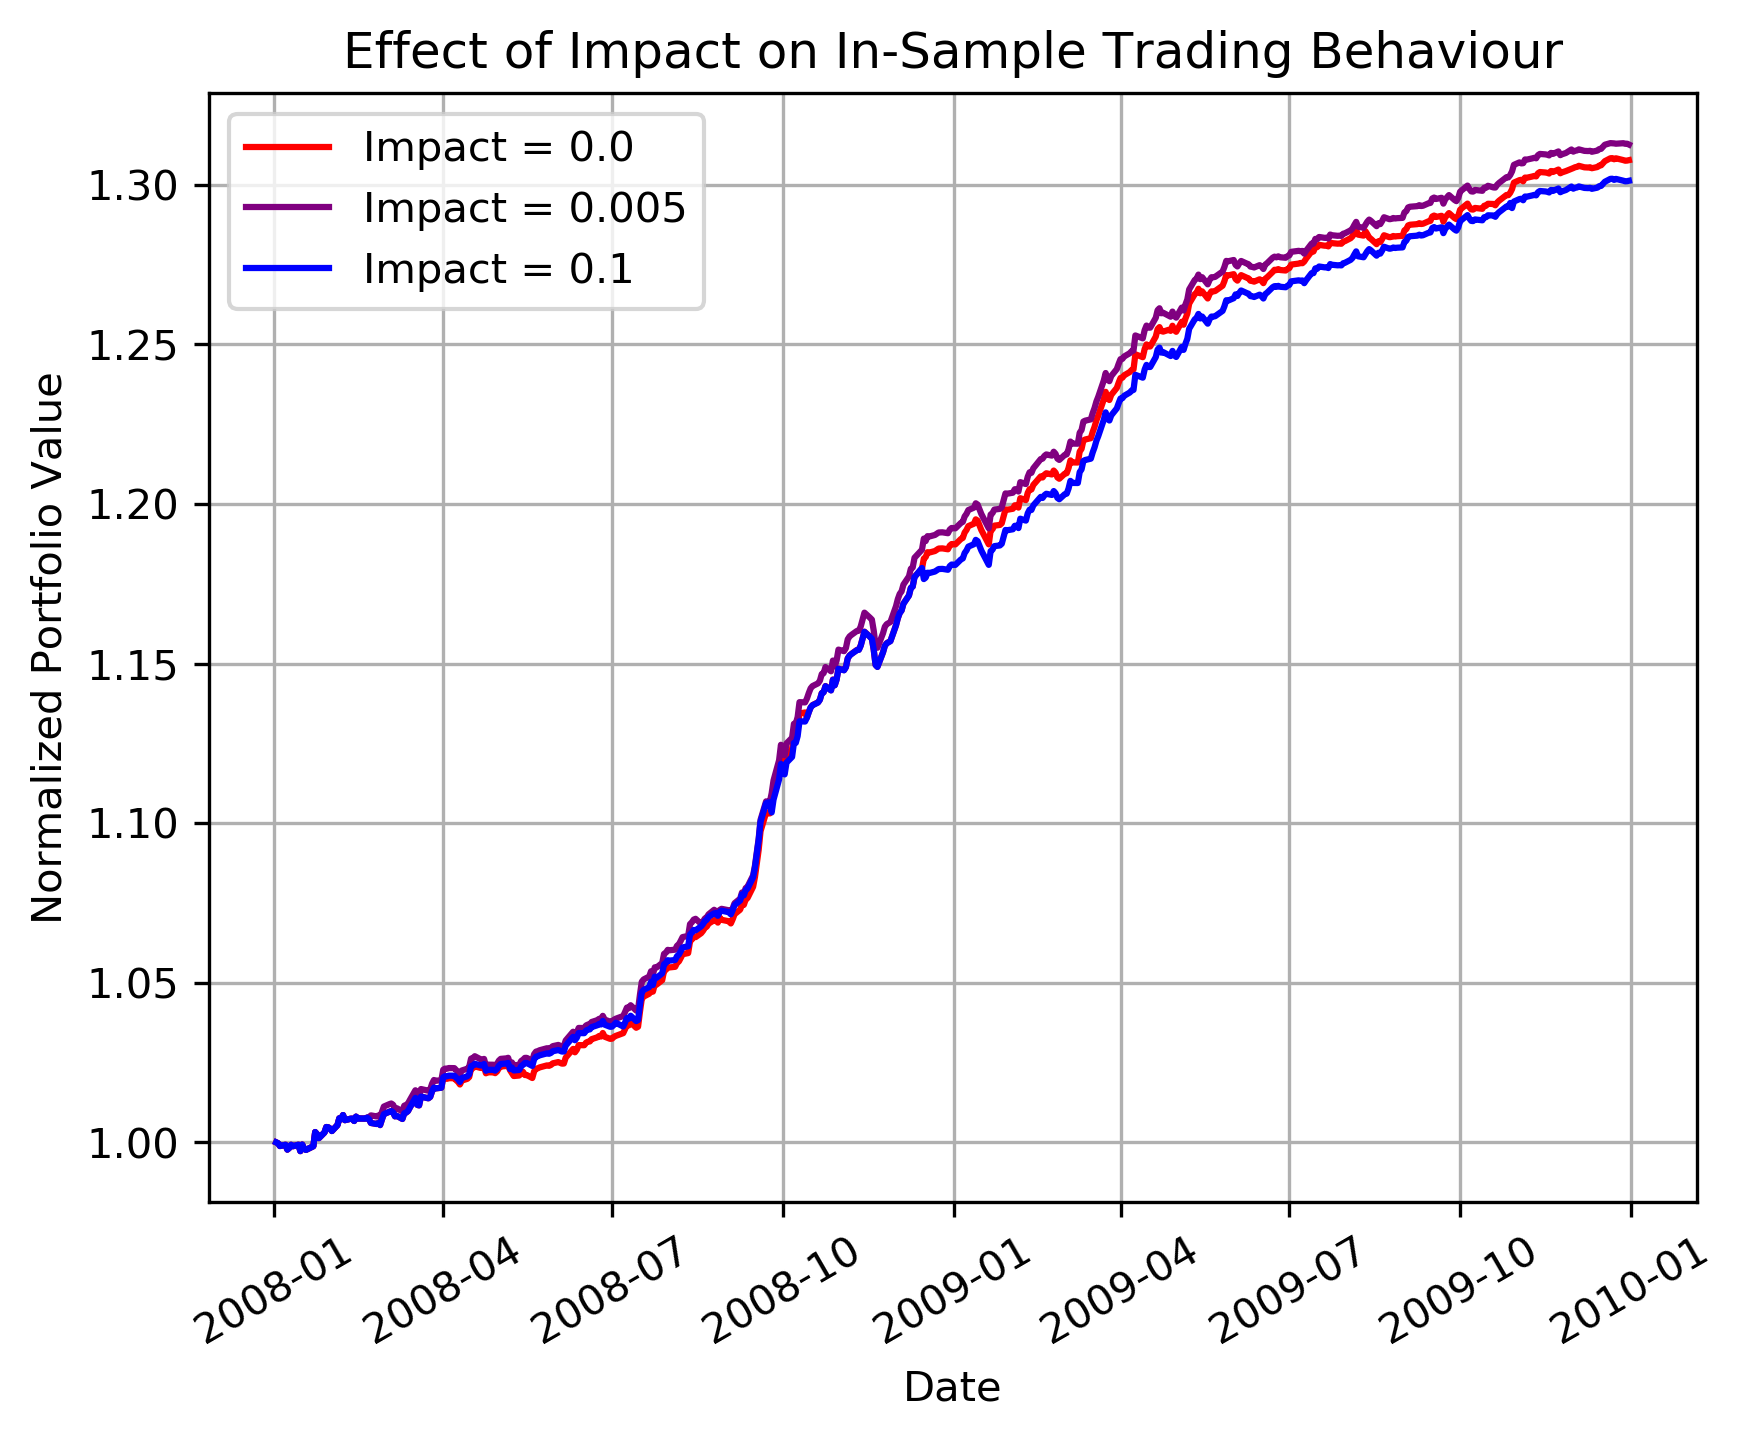
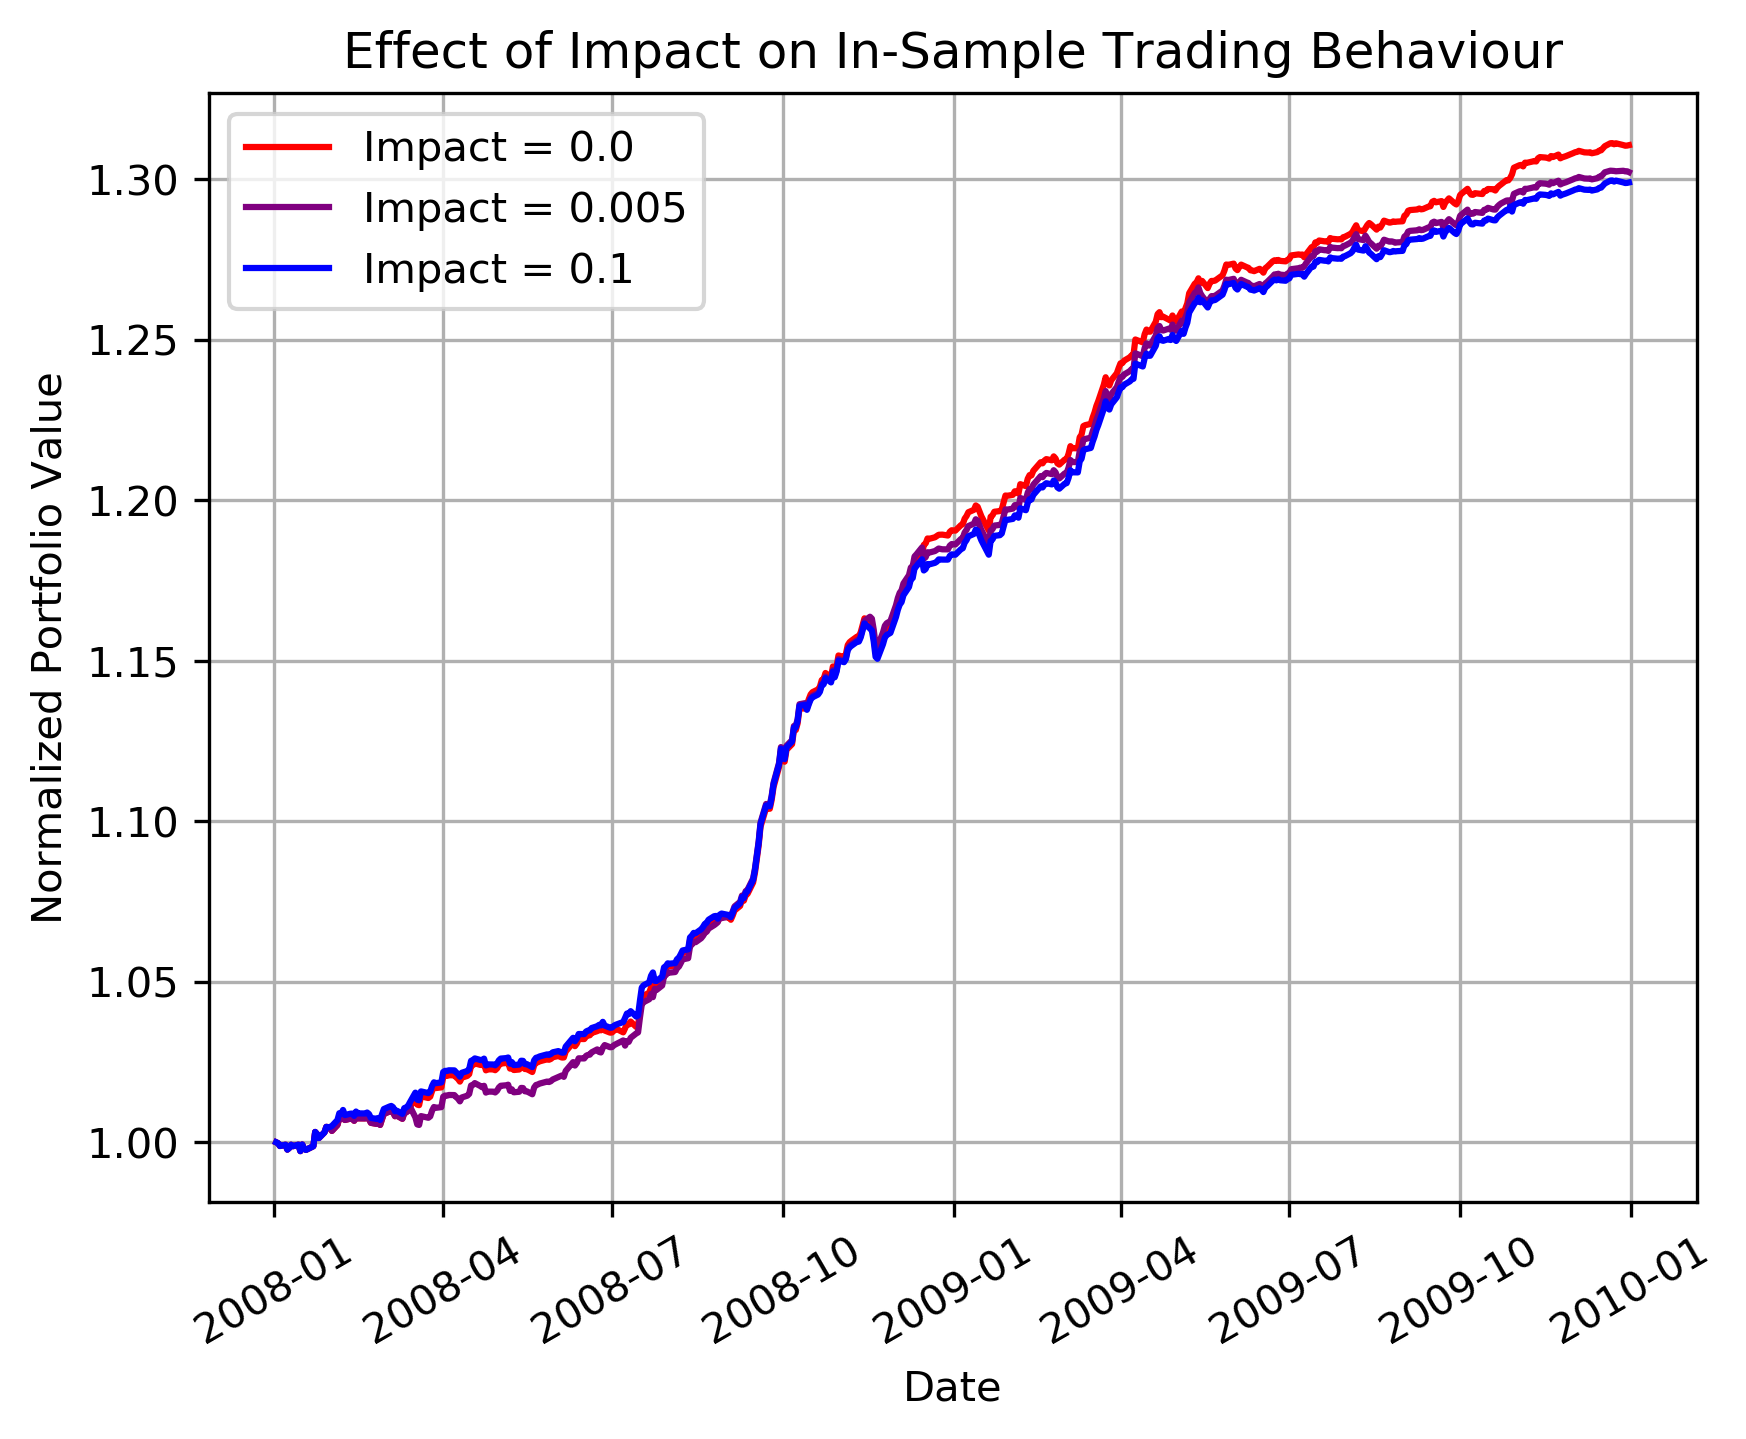
experiment2.py clean-up part 2

diff --git a/strategy_evaluation/experiment2.py b/strategy_evaluation/experiment2.py
@@ -27,16 +27,16 @@ def author():
 
 def test_code():
     sl = StrategyLearner(verbose=False, impact=0.0, commission=0.0)
-    sl.add_evidence(symbol='JPM', sd=dt.datetime(2008, 1, 1), ed=dt.datetime(2009, 12, 31), sv=100000)
-    df_es1 = sl.testPolicy(symbol='JPM', sd=dt.datetime(2008, 1, 1), ed=dt.datetime(2009, 12, 31))
+    sl.add_evidence(symbol='JPM', sd=dt.datetime(2008, 1, 1), ed=dt.datetime(2009, 12, 31), sv = 100000)
+    df_es1 = sl.testPolicy(symbol='JPM', sd=dt.datetime(2008, 1, 1), ed=dt.datetime(2009, 12, 31), sv=100000)
 
     sl = StrategyLearner(verbose=False, impact=0.005, commission=0.0)
-    sl.add_evidence(symbol='JPM', sd=dt.datetime(2008, 1, 1), ed=dt.datetime(2009, 12, 31), sv=100000)
-    df_es2 = sl.testPolicy(symbol='JPM', sd=dt.datetime(2008, 1, 1), ed=dt.datetime(2009, 12, 31))
+    sl.add_evidence(symbol='JPM', sd=dt.datetime(2008, 1, 1), ed=dt.datetime(2009, 12, 31), sv = 100000)
+    df_es2 = sl.testPolicy(symbol='JPM', sd=dt.datetime(2008, 1, 1), ed=dt.datetime(2009, 12, 31), sv=100000)
 
     sl = StrategyLearner(verbose=False, impact=0.1, commission=0.0)
-    sl.add_evidence(symbol='JPM', sd=dt.datetime(2008, 1, 1), ed=dt.datetime(2009, 12, 31), sv=100000)
-    df_es3 = sl.testPolicy(symbol='JPM', sd=dt.datetime(2008, 1, 1), ed=dt.datetime(2009, 12, 31))
+    sl.add_evidence(symbol='JPM', sd=dt.datetime(2008, 1, 1), ed=dt.datetime(2009, 12, 31), sv = 100000)
+    df_es3 = sl.testPolicy(symbol='JPM', sd=dt.datetime(2008, 1, 1), ed=dt.datetime(2009, 12, 31), sv=100000)
 
     es1 = ms.compute_portvals(df_es1)
     es2 = ms.compute_portvals(df_es2)
